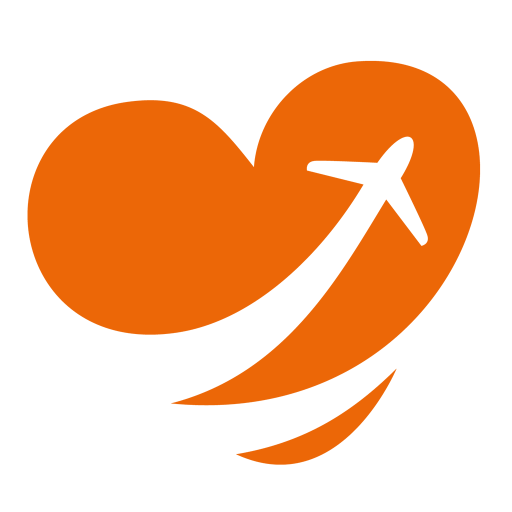
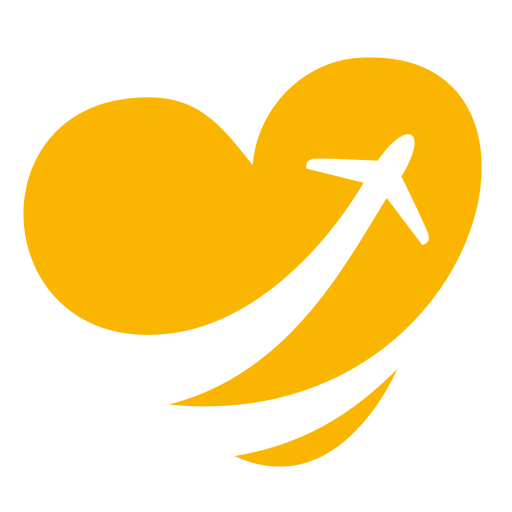
air skane added

diff --git a/lib/main_skane.dart b/lib/main_skane.dart
@@ -10,7 +10,7 @@ import 'data/globals.dart';
 // brand id AG
 
 void main() {
-  configAG();
+  configAS();
 
 
   var configuredApp = AppConfig(
@@ -25,17 +25,15 @@ void main() {
     runApp(configuredApp);
   });
 }
-void configAG() {
+void configAS() {
   SystemColors _systemColors = SystemColors(
-    primaryButtonColor: Color.fromRGBO(0Xfa, 0xb6, 0x00, 1),
+    primaryButtonColor: Color.fromRGBO(0X00, 0x37, 0x55, 1),
     accentButtonColor: Color.fromRGBO(0Xfa, 0xb6, 0x00, 1),
     accentColor: Colors.black,
-/*      primaryColor: Color.fromRGBO(0xF0, 0x81,0,1),
-      textButtonTextColor: Colors.black54  , */
-    primaryHeaderColor: Color.fromRGBO(0Xfa, 0xb6, 0x00,1), // orange Color.fromRGBO(0xF0, 0x81,0,1),
+    primaryHeaderColor: Color.fromRGBO(0X00, 0x37, 0x55, 1),
 
 
-    primaryColor:  Color.fromRGBO(0Xfa, 0xb6, 0x00, 1), // colour for datepicker header // Colors.red,
+    primaryColor:  Color.fromRGBO(0X00, 0x37, 0x55, 1), // colour for datepicker header // Colors.red,
     textButtonTextColor: Colors.black54,
     primaryButtonTextColor: Colors.white,
     //   primaryHeaderColor: Colors.red,
@@ -55,12 +53,13 @@ void configAG() {
 
   gblSettings = Settings(
     wantRememberMe: false,
-    wantHomeFQTVButton: true,
+    wantHomeFQTVButton: false,
     airlineName: "Air Skane",
     xmlToken: "token=tKXalaKEJHvQdwV4eN02v073sLxYwU97VoZsOpvxfOo%3D",
     xmlTokenPost:  "tKXalaKEJHvQdwV4eN02v073sLxYwU97VoZsOpvxfOo=",
     aircode:  "FL",
     brandID: "AS",
+    buttonStyle: 'RO2',
 
     termsAndConditionsUrl:  " https://www.airskane.se/sv/allt-for-resan/fore-resan/resebestammelser?app_mode=1",
     privacyPolicyUrl:  "https://www.airskane.se/sv/om-air-leap/integritetspolicy?app_mode=1",
@@ -75,6 +74,9 @@ void configAG() {
 //    hostBaseUrl: 'https://customertest.videcom.com/AirLeap/VARS/public',
     iOSAppId:  '1457545908',
     androidAppId:   'se.airskane.booking', //  'se.airleap.booking',
+    gblLanguages: 'sv,Swedish,no,Norwegian,da,Danish,fi,Finnish,en,English,fr,French',
+    currencies: 'se,SEK,no,NOK,dk,DKK,eu,EUR,gb,GBP',
+    gblServerFiles: 'https://customertest.videcom.com/AirLeap/AppFiles',
 
     eVoucher:  true,
     passengerTypes:  PassengerTypes(

diff --git a/lib/data/repository.dart b/lib/data/repository.dart
@@ -167,7 +167,7 @@ class Repository {
     if( cacheTime!= null && cacheTime.isNotEmpty){
       var cached = DateTime.parse(cacheTime);
 
-      if( cached.isAfter(DateTime.now().subtract(Duration(hours: 2)))) {
+      if( cached.isAfter(DateTime.now().subtract(Duration(days: 2)))) {
         // change to 2 days!
         logit('city cache good');
         return null;
@@ -927,7 +927,7 @@ class Repository {
     if( cacheTime!= null && cacheTime.isNotEmpty){
       var cached = DateTime.parse(cacheTime);
 
-      if( cached.isAfter(DateTime.now().subtract(Duration(hours: 2)))) {
+      if( cached.isAfter(DateTime.now().subtract(Duration(days: 2)))) {
         // change to 2 days!
         logit('route cache good');
         return null;

diff --git a/lib/main_gotland.dart b/lib/main_gotland.dart
@@ -36,7 +36,7 @@ void configAG() {
 //    primaryHeaderColor: Color.fromRGBO(0Xe5, 0x05, 0x5b,1),
     primaryHeaderColor: Color.fromRGBO(0X00, 0x37, 0x55, 1),
 
-    primaryColor: Color.fromRGBO(0Xe5, 0x05, 0x5b,1),
+    primaryColor: Color.fromRGBO(0Xe5, 0x05, 0x5b,1),// colour for datepicker header
     textButtonTextColor: Colors.black54,
     primaryButtonTextColor: Colors.white,
     //   primaryHeaderColor: Colors.red,

diff --git a/lib/main.dart b/lib/main.dart
@@ -26,6 +26,7 @@ import 'main_t6.dart';
 import 'main_z4.dart';
 import 'main_gotland.dart';
 import 'main_halland.dart';
+import 'main_skane.dart';
 
 void main() async {
   WidgetsFlutterBinding.ensureInitialized();
@@ -48,6 +49,9 @@ void main() async {
         break;
       case 'AH':
         configAH();
+        break;
+      case 'AS':
+        configAS();
         break;
       case 'T6':
         configT6();

diff --git a/lib/main_halland.dart b/lib/main_halland.dart
@@ -68,6 +68,7 @@ void configAH() {
     xmlTokenPost:  "tKXalaKEJHvQdwV4eN02v073sLxYwU97VoZsOpvxfOo=",
     aircode:  "FL",
     brandID: "AH",
+    buttonStyle: 'RO2',
 
     termsAndConditionsUrl:  " https://www.airhalland.se/sv/allt-for-resan/fore-resan/resebestammelser?app_mode=1",
     privacyPolicyUrl:  "https://www.airhalland.se/sv/om-air-leap/integritetspolicy?app_mode=1",
